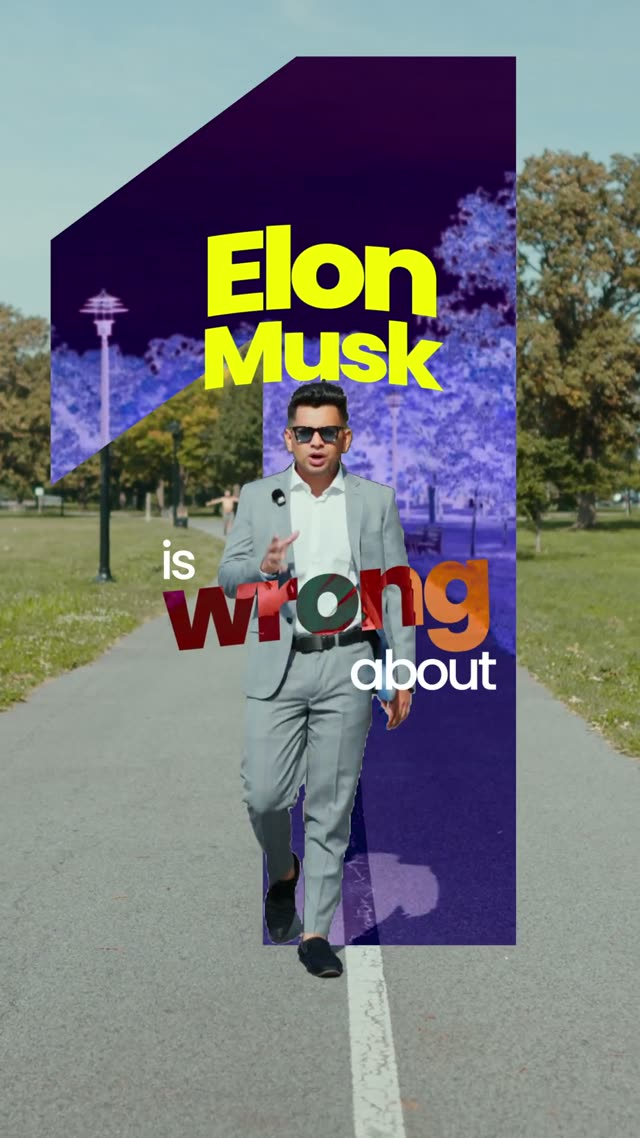
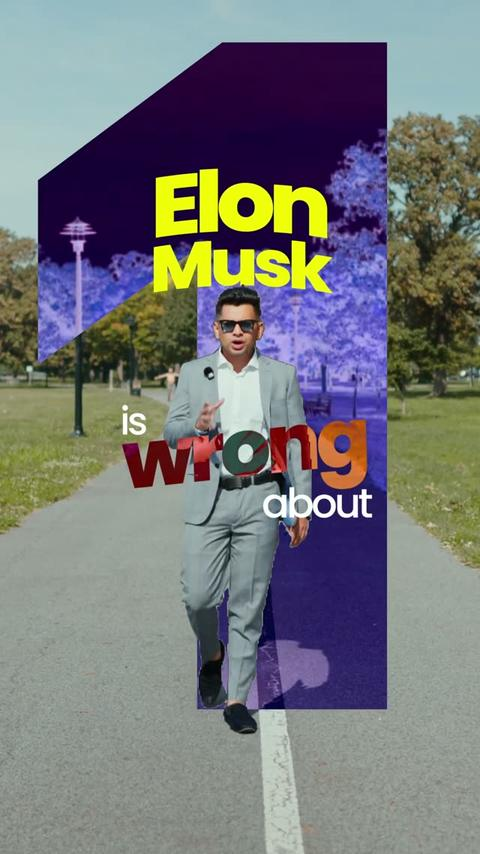
Fix soft 404s, cache policy, and oversized images
- worker.js now owns routing: known SPA routes serve the shell with
  200, unknown extensionless paths serve the shell with a real 404
  (React renders NotFound, search engines see the 404), missing
  assets 404 for real. not_found_handling none, run_worker_first /*.
- Cache policy: /assets/* 1yr immutable (content-hashed), media 7d,
  HTML shell max-age=0 so deploys land immediately. Video range
  repair unchanged.
- Posters 640px -> 480px q75 (2.4MB -> 1.4MB); brand logos resized
  to display size (symbol 2048px -> 112px, wordmark -> 160x48).

Changed region(s): [[0.3125, 0.1827, 0.6875, 0.3653], [0.6875, 0.4871, 0.7188, 0.5176]]

diff --git a/worker.js b/worker.js
@@ -1,5 +1,23 @@
-// Video range repair for /work/* (see wrangler.json run_worker_first).
+// LuxEntra Media Worker: SPA routing with real 404s, video range repair,
+// and cache policy.
 //
+// The worker runs first for every request (see wrangler.json
+// run_worker_first) and static assets use not_found_handling "none", so
+// this file owns all routing decisions:
+//
+//   /api/*            -> the Hono app in src/worker/index.ts (bookings,
+//                        orders, website chatbot).
+//   known SPA route   -> the app shell (index.html) with a 200.
+//   unknown path with no file extension (a mistyped or dead link)
+//                     -> the app shell with a real 404 status, so the
+//                        React router renders its NotFound page AND
+//                        search engines see the 404 (no more soft 404s).
+//   path with a file extension (a real asset request)
+//                     -> served from static assets as-is; a missing file
+//                        now 404s for real instead of falling back to the
+//                        homepage.
+//
+// Video range repair for /work/* .mp4 files:
 // Safari's media engine (iOS and macOS) requires a server to answer
 // Range requests with a 206 response and a well-formed Content-Range
 // header; intermittent plain-200 answers put it into a broken state
@@ -7,14 +25,126 @@
 // observed answering some Range requests with a plain 200, so video
 // traffic runs through this worker first: pass the asset response
 // through untouched when it already honours the range, otherwise
-// slice the file here and answer with a correct 206. Everything that
-// is not a ranged .mp4 request is served exactly as before.
+// slice the file here and answer with a correct 206.
 //
-// API routes (/api/*, also in run_worker_first) are served by the Hono
-// app in src/worker/index.ts: bookings, orders, and the website chatbot.
-// The Hono app is never reached through static assets, so it must be
-// delegated to here.
+// Cache policy (the assets layer answers max-age=0 for everything):
+//   /assets/*         -> 1 year immutable. Vite fingerprints these
+//                        files by content hash, so a new deploy is a
+//                        new filename and a stale copy is impossible.
+//   images / video / fonts
+//                     -> 7 days. Long enough to matter on repeat
+//                        visits, short enough that a replaced file
+//                        does not linger.
+//   HTML shell        -> max-age=0, must-revalidate, so a fresh deploy
+//                        reaches every visitor immediately.
 import app from "./src/worker/index.ts";
+
+// Every client-side route in src/react-app/App.tsx. If a route is added
+// there, add it here too, or the page will 404.
+const KNOWN_ROUTES = new Set([
+  "/",
+  "/preview-home",
+  "/book",
+  "/about",
+  "/order",
+  "/work",
+  "/branding",
+  "/real-estate-photography",
+  "/real-estate-film",
+  "/personal-branding-queens",
+  "/personal-branding-long-island",
+  "/consultation",
+  "/privacy",
+  "/backstage",
+]);
+
+const HTML_CACHE = "public, max-age=0, must-revalidate";
+const HASHED_ASSET_CACHE = "public, max-age=31536000, immutable";
+const MEDIA_CACHE = "public, max-age=604800";
+const MEDIA_EXTENSIONS = new Set([
+  "jpg", "jpeg", "png", "webp", "avif", "gif", "svg", "ico",
+  "mp4", "webm", "mov",
+  "woff", "woff2", "ttf", "otf",
+]);
+
+function cacheFor(path) {
+  if (path.startsWith("/assets/")) return HASHED_ASSET_CACHE;
+  const ext = path.split(".").pop().toLowerCase();
+  if (MEDIA_EXTENSIONS.has(ext)) return MEDIA_CACHE;
+  return HTML_CACHE;
+}
+
+function withCache(res, cacheControl) {
+  if (res.status !== 200) return res;
+  const headers = new Headers(res.headers);
+  headers.set("Cache-Control", cacheControl);
+  return new Response(res.body, {
+    status: res.status,
+    statusText: res.statusText,
+    headers,
+  });
+}
+
+function hasExtension(path) {
+  const last = path.split("/").pop();
+  return last.includes(".");
+}
+
+async function serveShell(request, env, status) {
+  const res = await env.ASSETS.fetch(
+    new Request(new URL("/", request.url), request),
+  );
+  // Set the cache header explicitly: withCache only touches 200s, and a
+  // 404 shell must never be cached long either.
+  const headers = new Headers(res.headers);
+  headers.set("Cache-Control", HTML_CACHE);
+  return new Response(res.body, {
+    status,
+    statusText: res.statusText,
+    headers,
+  });
+}
+
+// Slice a ranged .mp4 request into a correct 206 when the asset layer
+// answered with a plain 200. Returns the response untouched otherwise.
+async function applyRangeRepair(request, res) {
+  try {
+    if (request.method !== "GET" || res.status !== 200) return res;
+    const range = request.headers.get("Range");
+    if (!range) return res;
+    const url = new URL(request.url);
+    if (!url.pathname.endsWith(".mp4")) return res;
+    const m = /^bytes=(\d*)-(\d*)$/.exec(range.trim());
+    if (!m || (m[1] === "" && m[2] === "")) return res;
+
+    const buf = await res.arrayBuffer();
+    const total = buf.byteLength;
+    let start;
+    let end;
+    if (m[1] === "") {
+      // Suffix range: the last N bytes.
+      start = Math.max(0, total - parseInt(m[2], 10));
+      end = total - 1;
+    } else {
+      start = parseInt(m[1], 10);
+      end = m[2] === "" ? total - 1 : Math.min(parseInt(m[2], 10), total - 1);
+    }
+    if (start >= total) {
+      return new Response(null, {
+        status: 416,
+        headers: { "Content-Range": `bytes */${total}` },
+      });
+    }
+    const slice = buf.slice(start, end + 1);
+    const headers = new Headers(res.headers);
+    headers.set("Content-Range", `bytes ${start}-${end}/${total}`);
+    headers.set("Accept-Ranges", "bytes");
+    headers.set("Content-Length", String(slice.byteLength));
+    return new Response(slice, { status: 206, headers });
+  } catch {
+    return res;
+  }
+}
 
 export default {
   async fetch(request, env) {
@@ -22,42 +152,23 @@ export default {
     if (url.pathname.startsWith("/api/")) {
       return app.fetch(request, env);
     }
-    const res = await env.ASSETS.fetch(request);
-    try {
-      if (request.method !== "GET" || res.status !== 200) return res;
-      const range = request.headers.get("Range");
-      if (!range) return res;
-      const url = new URL(request.url);
-      if (!url.pathname.endsWith(".mp4")) return res;
-      const m = /^bytes=(\d*)-(\d*)$/.exec(range.trim());
-      if (!m || (m[1] === "" && m[2] === "")) return res;
-
-      const buf = await res.arrayBuffer();
-      const total = buf.byteLength;
-      let start;
-      let end;
-      if (m[1] === "") {
-        // Suffix range: the last N bytes.
-        start = Math.max(0, total - parseInt(m[2], 10));
-        end = total - 1;
-      } else {
-        start = parseInt(m[1], 10);
-        end = m[2] === "" ? total - 1 : Math.min(parseInt(m[2], 10), total - 1);
-      }
-      if (start >= total) {
-        return new Response(null, {
-          status: 416,
-          headers: { "Content-Range": `bytes */${total}` },
-        });
-      }
-      const slice = buf.slice(start, end + 1);
-      const headers = new Headers(res.headers);
-      headers.set("Content-Range", `bytes ${start}-${end}/${total}`);
-      headers.set("Accept-Ranges", "bytes");
-      headers.set("Content-Length", String(slice.byteLength));
-      return new Response(slice, { status: 206, headers });
-    } catch {
-      return res;
+    if (request.method !== "GET" && request.method !== "HEAD") {
+      return env.ASSETS.fetch(request);
     }
+
+    // Normalize: "/work/" is the "/work" route.
+    let path = url.pathname;
+    if (path.length > 1 && path.endsWith("/")) path = path.slice(0, -1);
+
+    if (KNOWN_ROUTES.has(path)) {
+      return serveShell(request, env, 200);
+    }
+    if (!hasExtension(path)) {
+      return serveShell(request, env, 404);
+    }
+
+    const res = await env.ASSETS.fetch(request);
+    const ranged = await applyRangeRepair(request, res);
+    return withCache(ranged, cacheFor(path));
   },
 };
